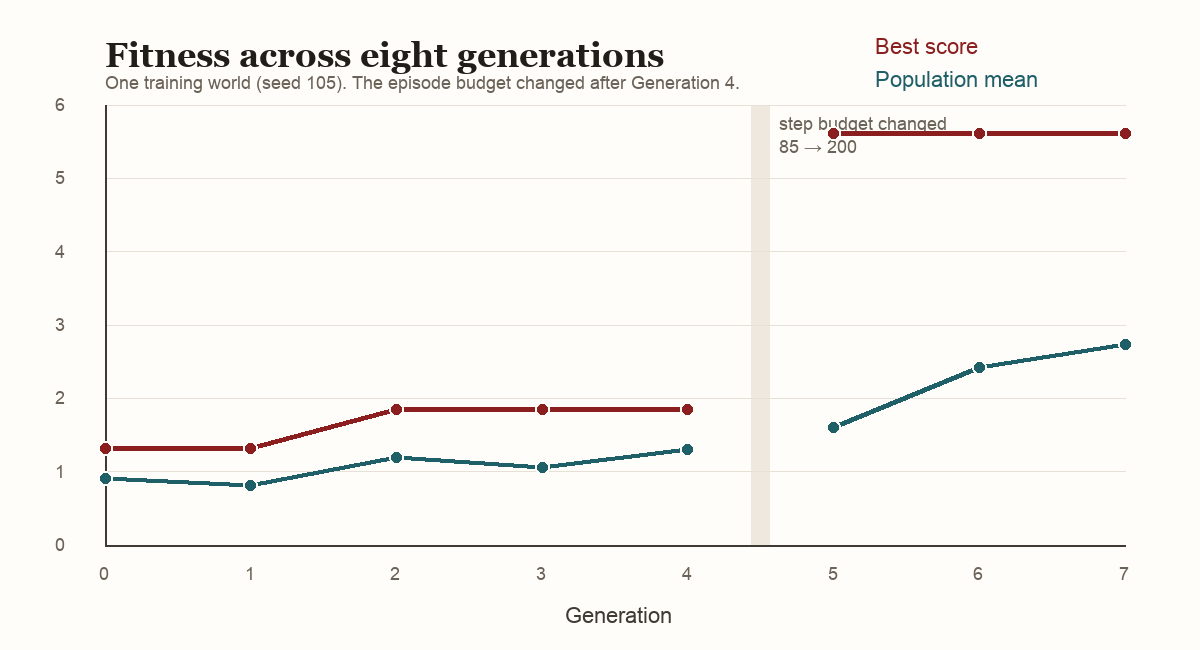
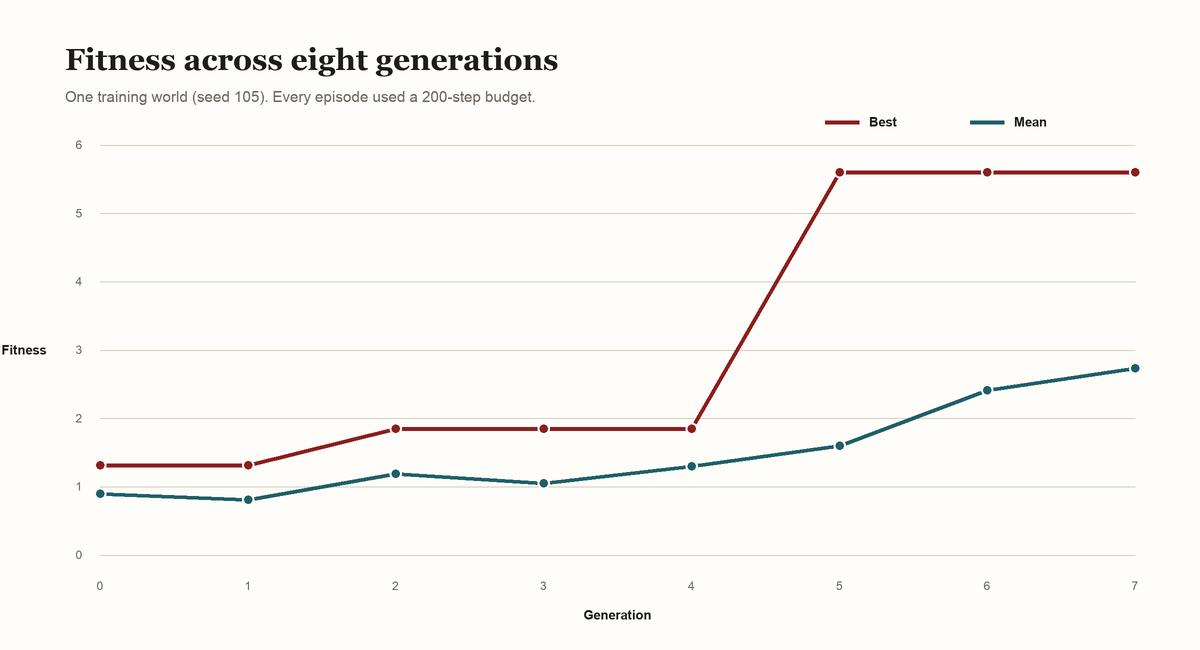
docs: present results with uniform step budget

diff --git a/docs/medium/harness-darwinism/index.html b/docs/medium/harness-darwinism/index.html
@@ -91,7 +91,7 @@
 <ol><li><strong>Initialization:</strong> The process starts with an initial set of candidates that take part in evolution. These candidates can be considered the <em>seeds</em>.</li><li><strong>Fitness evaluation:</strong> Every candidate is evaluated using a fitness function and assigned a score.</li><li><strong>Selection:</strong> Candidates are selected through a process similar to a roulette wheel, where the probability of selection is proportional to their fitness scores.</li><li><strong>Crossover:</strong> This is the crux of evolution, where two strong candidates cross to produce an offspring that can inherit dominant traits from either parent.</li><li><strong>Mutation:</strong> After crossover, a small part of the offspring's genome is randomly updated to preserve diversity among the new candidates.</li></ol>
 <p>The next population contains survivors and children. Repeating this cycle searches the genome space without testing every possible genome.</p>
 <h3>2.2 Our method</h3>
-<p>We evaluated Harness Darwinism in Crafter, a procedurally generated 2D survival environment, and represented each agent harness as a genome whose rules, memory policy, action interface, and context budget could be changed and validated by the evolution loop.</p>
+<p>We evaluated Harness Darwinism in Crafter, a procedurally generated 2D survival environment. Each agent harness is represented as a genome whose rules, memory policy, action interface, and context budget could be changed and validated by the evolution loop.</p>
 <pre data-language="json"><code>{
   &quot;system_prompt&quot;: &quot;You are a Crafter survival agent...&quot;,
   &quot;rules&quot;: [
@@ -106,39 +106,32 @@
     &quot;history_steps&quot;: 10
   }
 }</code></pre>
-<p>The gameplay model receives this genome together with the current observation and returns one validated Crafter action, while the model and its sampling settings remain fixed across every candidate.</p>
-<p>For each child, the meta-agent receives two selected genomes, produces a typed configuration with a note explaining which traits it retained, and then reads both parents' failure summaries before proposing one targeted mutation. These summaries contain the termination reason, step count, and unlocked achievements from each run.</p>
-<p>The system records every genome, run, score, parent link, crossover note, mutation note, and tried configuration hash so that the search remains resumable and its lineage remains visible.</p>
-<figure><img src="assets/architecture.png" alt="System architecture for selection, crossover, mutation, Crafter evaluation, and experiment evidence." loading="lazy"><figcaption>System architecture for selection, crossover, mutation, Crafter evaluation, and experiment evidence.</figcaption></figure>
+<figure><img src="assets/architecture.png" alt="System architecture for selection, crossover, mutation, Crafter evaluation, and experiment evidence." loading="lazy"><figcaption>Figure 1: High level system design</figcaption></figure>
 <h3>2.3 Initialization</h3>
-<p>Generation 0 began with ten hand-written rules covering resource collection, tool crafting, health, water, sleep, combat, and furnace construction, and each initial genome received a random subset of one to five of those rules. This produced ten different harnesses without asking the meta-agent to design the first population.</p>
-<p>Because the starting pool was small and simple, later genomes could only combine its rules or add strategies that the mutation model inferred from failures, which limited the space explored by the run.</p>
+<p>Generation 0 begins with 10 hand-written rules covering resource collection, tool crafting, health, water, sleep, combat, and furnace construction, and each initial genome received a random subset of one to five of those rules.</p>
 <h3>2.4 Fitness function</h3>
 <p>Crafter tracks 22 achievements, and we computed its standard score from their success rates:</p>
 <pre data-language="text"><code>score = exp(mean(log(1 + 100 × achievement_rate))) - 1</code></pre>
-<p>Every candidate in a generation played the same world, which reduced within-generation noise and made selection consistent; however, because the run used only one world and one episode per generation, each achievement rate was either zero or one, producing a valid training signal but a weak estimate of general performance.</p>
+<p>Every candidate in a generation played the same world, which reduced within-generation noise and made selection consistent.</p>
 <h3>2.5 Selection and elitism</h3>
-<p>We ranked all ten candidates by fitness, retained the top five as survivors, and moved the bottom five to the archive. Each survivor was then copied into the next generation, an elitism step that protected strong genomes from poor children and explains why some lineage nodes have one parent and no crossover.</p>
+<p>We rank all N candidates by fitness and retained the top K survivors which were picked at random based on probability that was proportional to their fitness scores. Rest were labelled as <b>archived</b> and were not considered for crossing. </p>
 <h3>2.6 Crossover</h3>
-<p>Parent pairs were sampled with fitness-based weights, although the system could select an archived genome with a small probability to restore diversity. The meta-agent then merged complementary rules, memory settings, and context budgets into an output that had to match the genome schema, retrying invalid output up to three times.</p>
+<p>Once the candidates are sampled we then prepare it for the cross-over step. This crossing process is carried by a meta-agent which merged the individual genomes into an output that had to match the genome schema. By merging, the rules, memory polices and tools available are procedurally combined for both the parents whose decision is made by the meta agent </p>
 <h3>2.7 Mutation</h3>
-<p>After crossover, the meta-agent read failure summaries from both parents and either added, removed, or changed one rule, although it could also adjust the memory policy or context budget.</p>
-<p>A global ledger stored the hash of every tried configuration, duplicate mutations were retried three times, and a deterministic context-budget change served as the final novelty fallback. Five elite copies and five children then formed the next population, keeping the active population fixed at ten.</p>
+<p>After crossover, the meta-agent can read failure summaries from both parents and can randomly either add, remove, or update one rule. It can also adjust the memory policy or context budget.</p>
+<p>A global ledger stored the hash of every tried configuration and K elite copies and N-K children then formed the next population, keeping the active population fixed at N.</p>
 <h2 id="3-experiments">3. Experiments</h2>
 <h3>3.1 Crafter environment</h3>
 <p>Crafter is a 2D survival game set in a procedurally generated world, where the agent collects resources, manages health and energy, fights enemies, builds stations, and crafts better tools [1]. Its action space contains 17 discrete actions, while evaluation covers 22 achievements ranging from collecting wood to crafting advanced tools and finding diamond.</p>
 <p>We optimized the geometric-mean Crafter score because it rewards progress across the full achievement set while giving additional value to achievements that few episodes unlock.</p>
 <h3>3.2 Experiment setup</h3>
-<div class="table-wrap"><table><thead><tr><th>Setting</th><th>Value</th></tr></thead><tbody><tr><td>Experiment</td><td><code>demo-evolution-3</code></td></tr><tr><td>Generations</td><td>8, numbered 0–7</td></tr><tr><td>Candidates per generation</td><td>10</td></tr><tr><td>Survivors per generation</td><td>5</td></tr><tr><td>Children per generation</td><td>5</td></tr><tr><td>Training worlds per generation</td><td>1</td></tr><tr><td>Training world</td><td>Seed 105</td></tr><tr><td>Episode budget, Generations 0–4</td><td>85 actions</td></tr><tr><td>Episode budget, Generations 5–7</td><td>200 actions</td></tr><tr><td>Gameplay model</td><td>Claude Haiku 4.5 on Amazon Bedrock</td></tr><tr><td>Meta-agent</td><td>Claude Opus 4.6 on Amazon Bedrock</td></tr><tr><td>Persistence</td><td>MongoDB Atlas</td></tr></tbody></table></div>
-<p>At each step, the gameplay model received a text observation of the world and selected one allowlisted action, while the runner captured rendered frames for the replay GIF. The meta-agent never played Crafter and handled only crossover and mutation, keeping task execution and evolutionary search in separate model calls.</p>
-<p>Atlas used four collections: <code>harnesses</code> stored genomes and lineage, <code>runs</code> stored episode evidence, <code>metrics</code> stored generation scores, and <code>ledger</code> stored configuration hashes.</p>
-<h3>3.3 Measurement protocol</h3>
-<p>We compared candidates only within the same episode budget, treating Generations 0–4 as the controlled 85-action phase and Generations 5–7 as the 200-action phase. Because we did not run a paired held-out test, we report only training-world fitness and observed behavior rather than a generalization result.</p>
+<div class="table-wrap"><table><thead><tr><th>Setting</th><th>Value</th></tr></thead><tbody><tr></tr><tr><td>Generations</td><td>8</td></tr><tr><td>Candidates per generation</td><td>10</td></tr><tr><td>Survivors per generation</td><td>5</td></tr><tr><td>Children per generation</td><td>5</td></tr><tr></tr><tr></tr><tr></tr><tr><td>Timesteps per episode</td><td>200 steps</td></tr><tr><td>Gameplay model</td><td>Claude Haiku 4.5</td></tr><tr><td>Meta-agent</td><td>Claude Opus 4.6</td></tr><tr></tr></tbody></table></div>
+
 <h2 id="4-results">4. Results</h2>
 <h3>4.1 Fitness over generations</h3>
-<figure><img src="assets/score-by-generation.png" alt="Best and mean fitness by generation. The gap marks the change from 85 to 200 actions." loading="lazy"><figcaption>Best and mean fitness by generation. The gap marks the change from 85 to 200 actions.</figcaption></figure>
-<p>Generation 0 had a best score of 1.314 and a mean of 0.901, while Generation 2 reached a best score of 1.854, representing a 41.1% increase under the same 85-action budget. The best score remained at 1.854 through Generation 4, but the mean rose to 1.299, a 44.2% increase from Generation 0.</p>
-<p>Generation 5 used 200 actions and reached 5.606, although the larger episode budget means this jump is not evidence of a 202% evolutionary gain over Generation 4. Within the 200-action phase, the best score remained at 5.606 while the mean rose from 1.606 in Generation 5 to 2.740 in Generation 7, a 70.6% increase that indicates better population quality even though the run did not find a stronger champion.</p>
+<figure><img src="assets/score-by-generation.png" alt="Best and mean fitness across eight generations, with every episode evaluated for 200 steps." loading="lazy"><figcaption>Best and mean fitness across eight generations, with every episode evaluated for 200 steps.</figcaption></figure>
+<p>Generation 0 began with a best score of 1.314 and a population mean of 0.901. The best score rose to 1.854 by Generation 2, remained there through Generation 4, and then reached 5.606 in Generation 5, where it stayed through Generation 7.</p>
+<p>The population mean fluctuated during the earlier generations before rising from 1.299 in Generation 4 to 1.606 in Generation 5 and 2.740 by Generation 7, showing that later generations improved the overall population even after the best score stopped increasing.</p>
 <h3>4.2 Lineage</h3>
 <section class="lineage-explorer" aria-labelledby="lineage-title"><div class="lineage-heading"><h3 id="lineage-title">Interactive lineage</h3><p>Click any connection to highlight both crossover parents and inspect the exact crossover output, mutation, and final child genome.</p></div><div class="lineage-layout"><div class="lineage-canvas"><svg id="lineage-graph" viewBox="0 0 1400 820" role="img" aria-label="Interactive graph of 80 harness candidates across eight generations"></svg></div><aside class="lineage-detail" id="lineage-detail" aria-live="polite"><p class="detail-empty">Select a parent-to-child connection.</p></aside></div></section><noscript><figure><img src="assets/lineage-overview.png" alt="Full lineage of 80 candidates. Node color shows score. The red outline marks the final champion&#x27;s ancestry."><figcaption>Full lineage of 80 candidates. Node color shows score. The red outline marks the final champion's ancestry.</figcaption></figure></noscript>
 <p>The lineage contains 80 evaluated harnesses, with pale edges showing every parent link and the red path tracing the ancestors of the final champion. Single-parent edges represent elite copies, while two-parent edges represent crossover children, preventing an inherited survivor from being mistaken for a new crossover.</p>
@@ -146,13 +139,12 @@
 <p>Because this child changed several fields at once, the result does not establish that any single rule caused the gain; that claim would require a rule-level ablation.</p>
 <h3>4.3 Observed behavior</h3>
 <p>Recorded replay evidence is available for Generations 3–5, and the following examples show three measured candidates on world seed 105.</p>
-<figure><img src="assets/generation-3-score-0.521.gif" alt="Generation 3 candidate g3_00. Score 0.521 with an 85-action budget." loading="lazy"><figcaption>Generation 3 candidate g3_00. Score 0.521 with an 85-action budget.</figcaption></figure>
+<figure><img src="assets/generation-3-score-0.521.gif" alt="Generation 3 candidate g3_00. Score 0.521 with a 200-step budget." loading="lazy"><figcaption>Generation 3 candidate g3_00. Score 0.521 with a 200-step budget.</figcaption></figure>
 <p>Candidate <code>g3_00</code> collected wood and placed a table but did not reach stone tools, spending much of the episode near the beginning of the technology tree.</p>
-<figure><img src="assets/generation-4-score-1.854.gif" alt="Generation 4 candidate g4_05. Score 1.854 with an 85-action budget." loading="lazy"><figcaption>Generation 4 candidate g4_05. Score 1.854 with an 85-action budget.</figcaption></figure>
+<figure><img src="assets/generation-4-score-1.854.gif" alt="Generation 4 candidate g4_05. Score 1.854 with a 200-step budget." loading="lazy"><figcaption>Generation 4 candidate g4_05. Score 1.854 with a 200-step budget.</figcaption></figure>
 <p>Candidate <code>g4_05</code> collected wood, stone, and coal, placed a table, and made a wooden pickaxe, producing an action sequence with a clearer progression from resources to tools.</p>
-<figure><img src="assets/generation-5-score-5.606.gif" alt="Generation 5 candidate g5_02. Score 5.606 with a 200-action budget." loading="lazy"><figcaption>Generation 5 candidate g5_02. Score 5.606 with a 200-action budget.</figcaption></figure>
+<figure><img src="assets/generation-5-score-5.606.gif" alt="Generation 5 candidate g5_02. Score 5.606 with a 200-step budget." loading="lazy"><figcaption>Generation 5 candidate g5_02. Score 5.606 with a 200-step budget.</figcaption></figure>
 <p>Candidate <code>g5_02</code> unlocked nine achievements by collecting wood, stone, coal, water, and a sapling, making wooden and stone pickaxes, and placing both a table and a furnace.</p>
-<p>Because the last replay has a larger action budget, these videos show observed behavior rather than a controlled causal comparison.</p>
 <h3>4.4 Rule evolution</h3>
 <p>The rules became more specific as the meta-agent encountered failures and carried their lessons into later generations.</p>
 <div class="table-wrap"><table><thead><tr><th>Stage</th><th>Example policy change</th><th>Score</th></tr></thead><tbody><tr><td>Generation 0</td><td>“Collect wood before anything else.”</td><td>Best 1.314</td></tr><tr><td>Generation 2</td><td>Mine stone after the wooden pickaxe; check inventory; reassess the next goal.</td><td>1.854</td></tr><tr><td>Generation 4</td><td>Add step limits, milestone notes, and direct cave or downward search.</td><td>1.854</td></tr><tr><td>Generation 5</td><td>Add anti-stall thresholds, survival thresholds, and a 25-step history window.</td><td>5.606</td></tr></tbody></table></div>
@@ -160,11 +152,11 @@
 <p>The final policy remained imperfect because one rule claimed that stone was always two to four blocks below the surface, a statement that may fit seed 105 but is unsafe for unseen worlds. This suggests possible overfitting, since evolution can preserve a useful shortcut before there is evidence that it generalizes.</p>
 <h3>4.5 Comparison with published Crafter results</h3>
 <p>CrafterDojo reports 31.8 for its strongest prior baseline and 61.4 for its large behavioral-cloning model [8], while the official Crafter scoreboard lists humans at 50.5 [9]. Our score of 5.606 is substantially lower, but it is also not directly comparable because the published results use different observations, training budgets, policies, and many evaluation episodes.</p>
-<p>Our run used one training world and at most 200 actions per episode because its purpose was to test harness evolution, lineage, and replay rather than establish a Crafter benchmark result.</p>
+<p>Our run used one training world and 200 steps per episode because its purpose was to test harness evolution, lineage, and replay rather than establish a Crafter benchmark result.</p>
 <h2 id="5-conclusion">5. Conclusion</h2>
 <p>Harness Darwinism turned an agent harness into a searchable genome by using selection to retain stronger policies, crossover to combine parents, and mutation to act on failure evidence, while preserving the complete history of the search.</p>
-<p>At a fixed 85-action budget, best fitness improved by 41.1% and mean fitness by 44.2%, while the longer 200-action phase reached 5.606 and increased mean fitness by 70.6% across three generations. Although the experiment did not reach published Crafter scores, it showed that a fixed model can produce better training behavior when the harness itself becomes the object of evolution.</p>
-<p>The experiment had three main limits: it used one training world, changed the action budget after Generation 4, and did not run a paired evaluation on unseen worlds. API usage created another constraint because one 200-action episode could send more than two million input tokens as each action repeated recent history, meaning that larger context genes increased both capability and cost.</p>
+<p>Across eight generations with a fixed 200-step budget, best fitness rose from 1.314 to 5.606, while mean fitness rose from 0.901 to 2.740. Although the experiment did not reach published Crafter scores, it showed that a fixed model can produce better training behavior when the harness itself becomes the object of evolution.</p>
+<p>The experiment had two main limits: it used one training world and did not run a paired evaluation on unseen worlds. API usage created another constraint because one 200-step episode could send more than two million input tokens as each action repeated recent history, meaning that larger context genes increased both capability and cost.</p>
 <p>The starter rules also restricted the search because they mainly covered survival and the crafting sequence, whereas a stronger initial population could include navigation, spatial memory, recovery, and tool-use policies. A follow-up study should therefore use several shared training seeds, freeze the champion, compare it with the initial harness on paired held-out seeds, and remove one evolved rule at a time.</p>
 <p>The experiment also exposed a basic evaluation requirement: generating another prompt is easy, but retaining enough evidence to determine whether that prompt is better is harder.</p>
 <h2 id="references">References</h2>

diff --git a/docs/medium/harness-darwinism/build_assets.py b/docs/medium/harness-darwinism/build_assets.py
@@ -513,6 +513,108 @@ def build_lineage() -> None:
     )
 
 
+def build_score_chart() -> None:
+    """Draw best and mean fitness across the eight 200-step generations."""
+    metrics = json.loads((ROOT / "evidence.json").read_text())["metrics"]
+    canvas = Image.new("RGB", (1200 * SCALE, 650 * SCALE), PAPER)
+    draw = ImageDraw.Draw(canvas)
+    draw.text(
+        (65 * SCALE, 42 * SCALE),
+        "Fitness across eight generations",
+        fill=INK,
+        font=font(30, serif=True),
+    )
+    draw.text(
+        (65 * SCALE, 88 * SCALE),
+        "One training world (seed 105). Every episode used a 200-step budget.",
+        fill=MUTED,
+        font=font(15),
+    )
+
+    left, top, right, bottom = 100, 145, 1135, 555
+    for value in range(7):
+        y = bottom - (value / 6) * (bottom - top)
+        draw.line(
+            ((left * SCALE, y * SCALE), (right * SCALE, y * SCALE)),
+            fill=RULE,
+            width=SCALE,
+        )
+        draw.text(
+            ((left - 18) * SCALE, y * SCALE),
+            str(value),
+            fill=MUTED,
+            font=font(12),
+            anchor="rm",
+        )
+
+    def point(generation: int, score: float) -> tuple[int, int]:
+        x = left + generation * (right - left) / (len(metrics) - 1)
+        y = bottom - score / 6 * (bottom - top)
+        return round(x * SCALE), round(y * SCALE)
+
+    best_points = [point(row["generation"], row["best"]) for row in metrics]
+    mean_points = [point(row["generation"], row["mean"]) for row in metrics]
+    draw.line(best_points, fill=RED, width=4 * SCALE, joint="curve")
+    draw.line(mean_points, fill=TEAL, width=4 * SCALE, joint="curve")
+
+    for row, best_point, mean_point in zip(
+        metrics, best_points, mean_points, strict=True
+    ):
+        for chart_point, color in ((best_point, RED), (mean_point, TEAL)):
+            x, y = chart_point
+            radius = 6 * SCALE
+            draw.ellipse(
+                (x - radius, y - radius, x + radius, y + radius),
+                fill=color,
+                outline=PAPER,
+                width=2 * SCALE,
+            )
+        draw.text(
+            (best_point[0], (bottom + 24) * SCALE),
+            str(row["generation"]),
+            fill=MUTED,
+            font=font(12),
+            anchor="ma",
+        )
+
+    draw.text(
+        (((left + right) / 2) * SCALE, 615 * SCALE),
+        "Generation",
+        fill=INK,
+        font=font(13, bold=True),
+        anchor="mm",
+    )
+    draw.text(
+        (24 * SCALE, ((top + bottom) / 2) * SCALE),
+        "Fitness",
+        fill=INK,
+        font=font(13, bold=True),
+        anchor="mm",
+    )
+
+    legend_y = 122
+    for start_x, color, label in ((825, RED, "Best"), (970, TEAL, "Mean")):
+        draw.line(
+            (
+                (start_x * SCALE, legend_y * SCALE),
+                ((start_x + 34) * SCALE, legend_y * SCALE),
+            ),
+            fill=color,
+            width=4 * SCALE,
+        )
+        draw.text(
+            ((start_x + 44) * SCALE, legend_y * SCALE),
+            label,
+            fill=INK,
+            font=font(13, bold=True),
+            anchor="lm",
+        )
+
+    canvas.resize((1200, 650), Image.Resampling.LANCZOS).save(
+        ASSETS / "score-by-generation.png", optimize=True
+    )
+
+
 def compress_replay(source: Path, destination: Path) -> None:
     """Resize and subsample one replay while preserving its playback duration."""
     with Image.open(source) as replay:
@@ -557,6 +659,7 @@ def main() -> None:
     """Build all research-article assets."""
     ASSETS.mkdir(exist_ok=True)
     build_architecture()
+    build_score_chart()
     build_lineage()
     build_replays()
 

diff --git a/docs/medium/harness-darwinism/article.md b/docs/medium/harness-darwinism/article.md
@@ -104,8 +104,7 @@ We optimized the geometric-mean Crafter score because it rewards progress across
 | Children per generation | 5 |
 | Training worlds per generation | 1 |
 | Training world | Seed 105 |
-| Episode budget, Generations 0–4 | 85 actions |
-| Episode budget, Generations 5–7 | 200 actions |
+| Timesteps per episode | 200 steps |
 | Gameplay model | Claude Haiku 4.5 on Amazon Bedrock |
 | Meta-agent | Claude Opus 4.6 on Amazon Bedrock |
 | Persistence | MongoDB Atlas |
@@ -116,17 +115,17 @@ Atlas used four collections: `harnesses` stored genomes and lineage, `runs` stor
 
 ### 3.3 Measurement protocol
 
-We compared candidates only within the same episode budget, treating Generations 0–4 as the controlled 85-action phase and Generations 5–7 as the 200-action phase. Because we did not run a paired held-out test, we report only training-world fitness and observed behavior rather than a generalization result.
+Every candidate was evaluated with the same 200-step episode budget. Because we did not run a paired held-out test, we report only training-world fitness and observed behavior rather than a generalization result.
 
 ## 4. Results
 
 ### 4.1 Fitness over generations
 
-![Best and mean fitness by generation. The gap marks the change from 85 to 200 actions.](assets/score-by-generation.png)
+![Best and mean fitness across eight generations, with every episode evaluated for 200 steps.](assets/score-by-generation.png)
 
-Generation 0 had a best score of 1.314 and a mean of 0.901, while Generation 2 reached a best score of 1.854, representing a 41.1% increase under the same 85-action budget. The best score remained at 1.854 through Generation 4, but the mean rose to 1.299, a 44.2% increase from Generation 0.
+Generation 0 began with a best score of 1.314 and a population mean of 0.901. The best score rose to 1.854 by Generation 2, remained there through Generation 4, and then reached 5.606 in Generation 5, where it stayed through Generation 7.
 
-Generation 5 used 200 actions and reached 5.606, although the larger episode budget means this jump is not evidence of a 202% evolutionary gain over Generation 4. Within the 200-action phase, the best score remained at 5.606 while the mean rose from 1.606 in Generation 5 to 2.740 in Generation 7, a 70.6% increase that indicates better population quality even though the run did not find a stronger champion.
+The population mean fluctuated during the earlier generations before rising from 1.299 in Generation 4 to 1.606 in Generation 5 and 2.740 by Generation 7, showing that later generations improved the overall population even after the best score stopped increasing.
 
 ### 4.2 Lineage
 
@@ -142,19 +141,17 @@ Because this child changed several fields at once, the result does not establish
 
 Recorded replay evidence is available for Generations 3–5, and the following examples show three measured candidates on world seed 105.
 
-![Generation 3 candidate g3_00. Score 0.521 with an 85-action budget.](assets/generation-3-score-0.521.gif)
+![Generation 3 candidate g3_00. Score 0.521 with a 200-step budget.](assets/generation-3-score-0.521.gif)
 
 Candidate `g3_00` collected wood and placed a table but did not reach stone tools, spending much of the episode near the beginning of the technology tree.
 
-![Generation 4 candidate g4_05. Score 1.854 with an 85-action budget.](assets/generation-4-score-1.854.gif)
+![Generation 4 candidate g4_05. Score 1.854 with a 200-step budget.](assets/generation-4-score-1.854.gif)
 
 Candidate `g4_05` collected wood, stone, and coal, placed a table, and made a wooden pickaxe, producing an action sequence with a clearer progression from resources to tools.
 
-![Generation 5 candidate g5_02. Score 5.606 with a 200-action budget.](assets/generation-5-score-5.606.gif)
+![Generation 5 candidate g5_02. Score 5.606 with a 200-step budget.](assets/generation-5-score-5.606.gif)
 
 Candidate `g5_02` unlocked nine achievements by collecting wood, stone, coal, water, and a sapling, making wooden and stone pickaxes, and placing both a table and a furnace.
-
-Because the last replay has a larger action budget, these videos show observed behavior rather than a controlled causal comparison.
 
 ### 4.4 Rule evolution
 
@@ -175,15 +172,15 @@ The final policy remained imperfect because one rule claimed that stone was alwa
 
 CrafterDojo reports 31.8 for its strongest prior baseline and 61.4 for its large behavioral-cloning model [8], while the official Crafter scoreboard lists humans at 50.5 [9]. Our score of 5.606 is substantially lower, but it is also not directly comparable because the published results use different observations, training budgets, policies, and many evaluation episodes.
 
-Our run used one training world and at most 200 actions per episode because its purpose was to test harness evolution, lineage, and replay rather than establish a Crafter benchmark result.
+Our run used one training world and 200 steps per episode because its purpose was to test harness evolution, lineage, and replay rather than establish a Crafter benchmark result.
 
 ## 5. Conclusion
 
 Harness Darwinism turned an agent harness into a searchable genome by using selection to retain stronger policies, crossover to combine parents, and mutation to act on failure evidence, while preserving the complete history of the search.
 
-At a fixed 85-action budget, best fitness improved by 41.1% and mean fitness by 44.2%, while the longer 200-action phase reached 5.606 and increased mean fitness by 70.6% across three generations. Although the experiment did not reach published Crafter scores, it showed that a fixed model can produce better training behavior when the harness itself becomes the object of evolution.
+Across eight generations with a fixed 200-step budget, best fitness rose from 1.314 to 5.606, while mean fitness rose from 0.901 to 2.740. Although the experiment did not reach published Crafter scores, it showed that a fixed model can produce better training behavior when the harness itself becomes the object of evolution.
 
-The experiment had three main limits: it used one training world, changed the action budget after Generation 4, and did not run a paired evaluation on unseen worlds. API usage created another constraint because one 200-action episode could send more than two million input tokens as each action repeated recent history, meaning that larger context genes increased both capability and cost.
+The experiment had two main limits: it used one training world and did not run a paired evaluation on unseen worlds. API usage created another constraint because one 200-step episode could send more than two million input tokens as each action repeated recent history, meaning that larger context genes increased both capability and cost.
 
 The starter rules also restricted the search because they mainly covered survival and the crafting sequence, whereas a stronger initial population could include navigation, spatial memory, recovery, and tool-use policies. A follow-up study should therefore use several shared training seeds, freeze the champion, compare it with the initial harness on paired held-out seeds, and remove one evolved rule at a time.
 

diff --git a/docs/medium/harness-darwinism/README.md b/docs/medium/harness-darwinism/README.md
@@ -18,7 +18,7 @@ This folder contains the publication draft and its supporting evidence.
 - `assets/generation-*.gif`: Recorded behavior at Generations 3, 4, and 5.
 - `assets/champion-replay.gif`: Compressed champion replay for Medium.
 - `assets/champion-frame.png`: Still image from the champion replay.
-- `assets/score-by-generation.png`: Score chart with the step-budget change marked.
+- `assets/score-by-generation.png`: Score chart across all eight generations at a 200-step budget.
 
 ## Medium upload order
 
@@ -28,4 +28,4 @@ This folder contains the publication draft and its supporting evidence.
 4. Upload the three `generation-*.gif` files in their listed order.
 5. Check code blocks, tables, captions, and links in Medium's editor.
 
-The article separates the 85-step and 200-step phases. Do not remove that distinction when editing the results.
+The article presents all eight generations with a 200-step episode budget.
